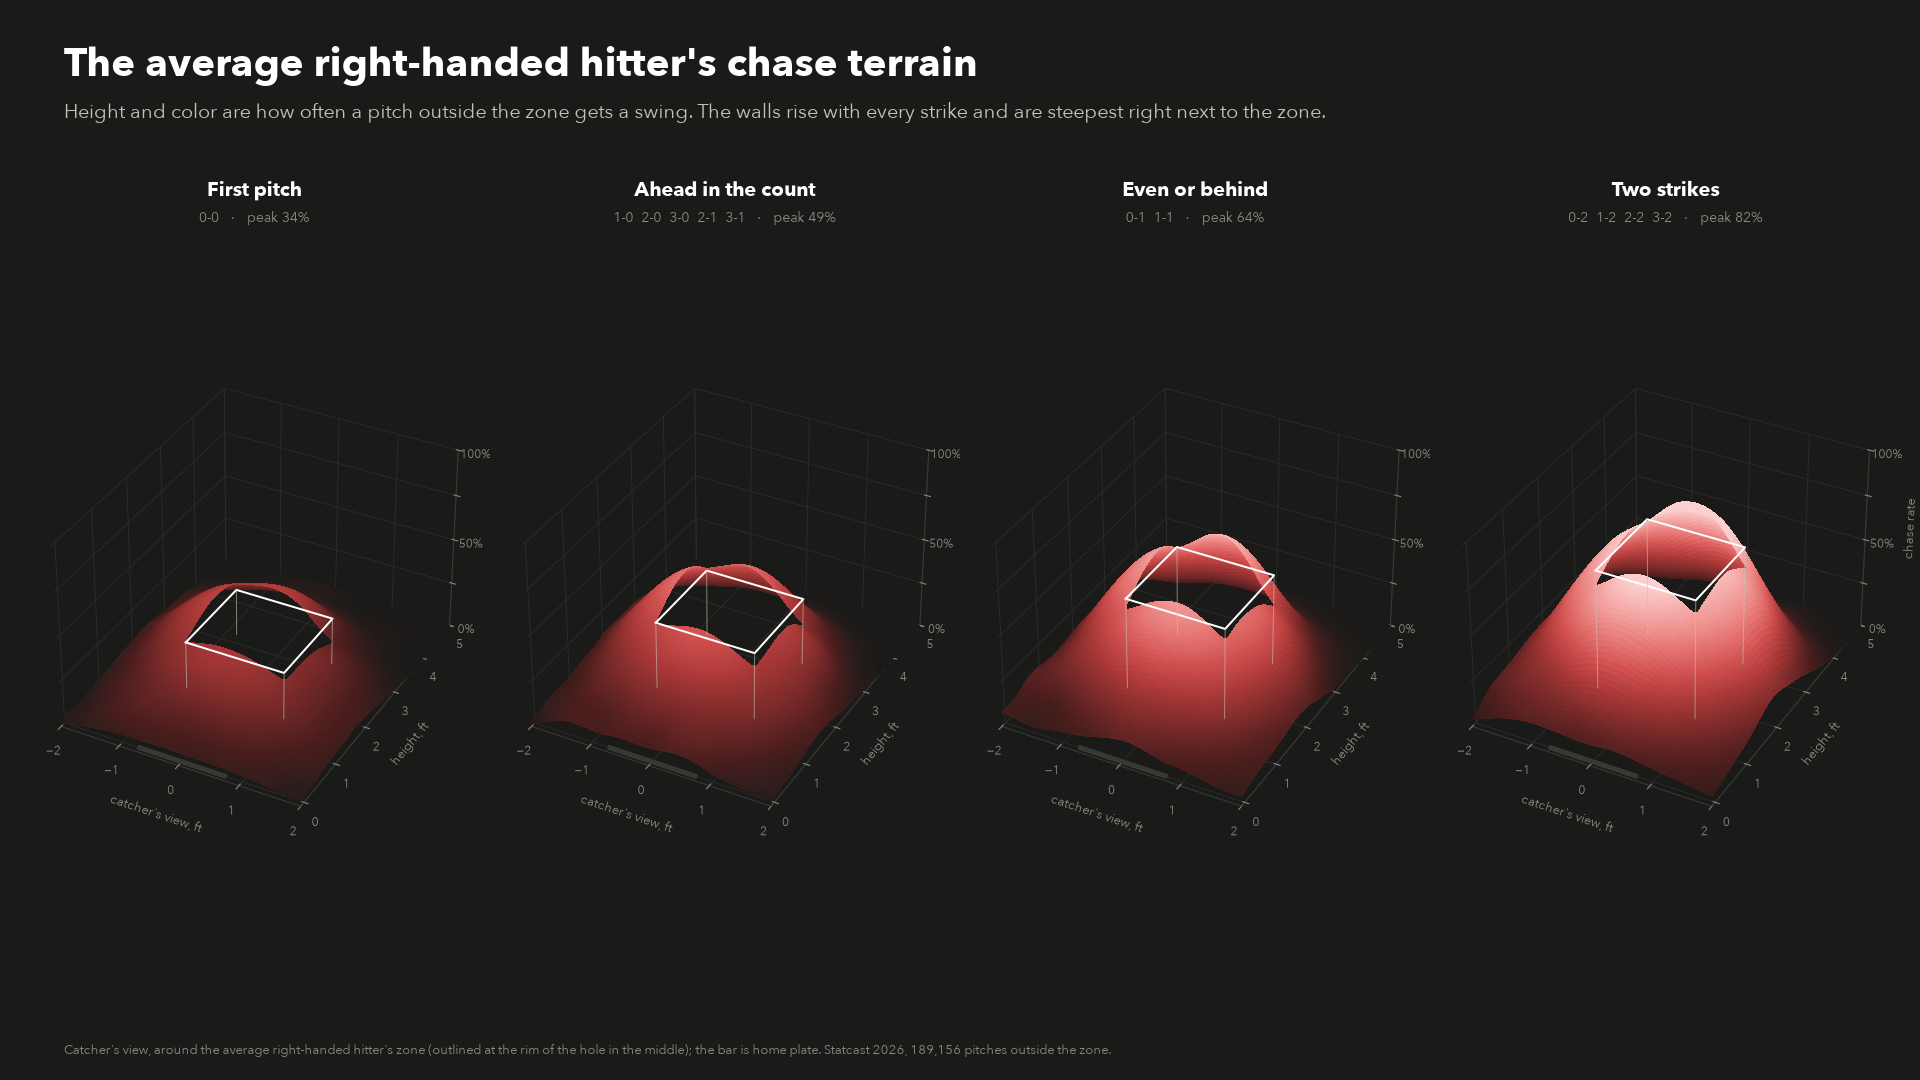
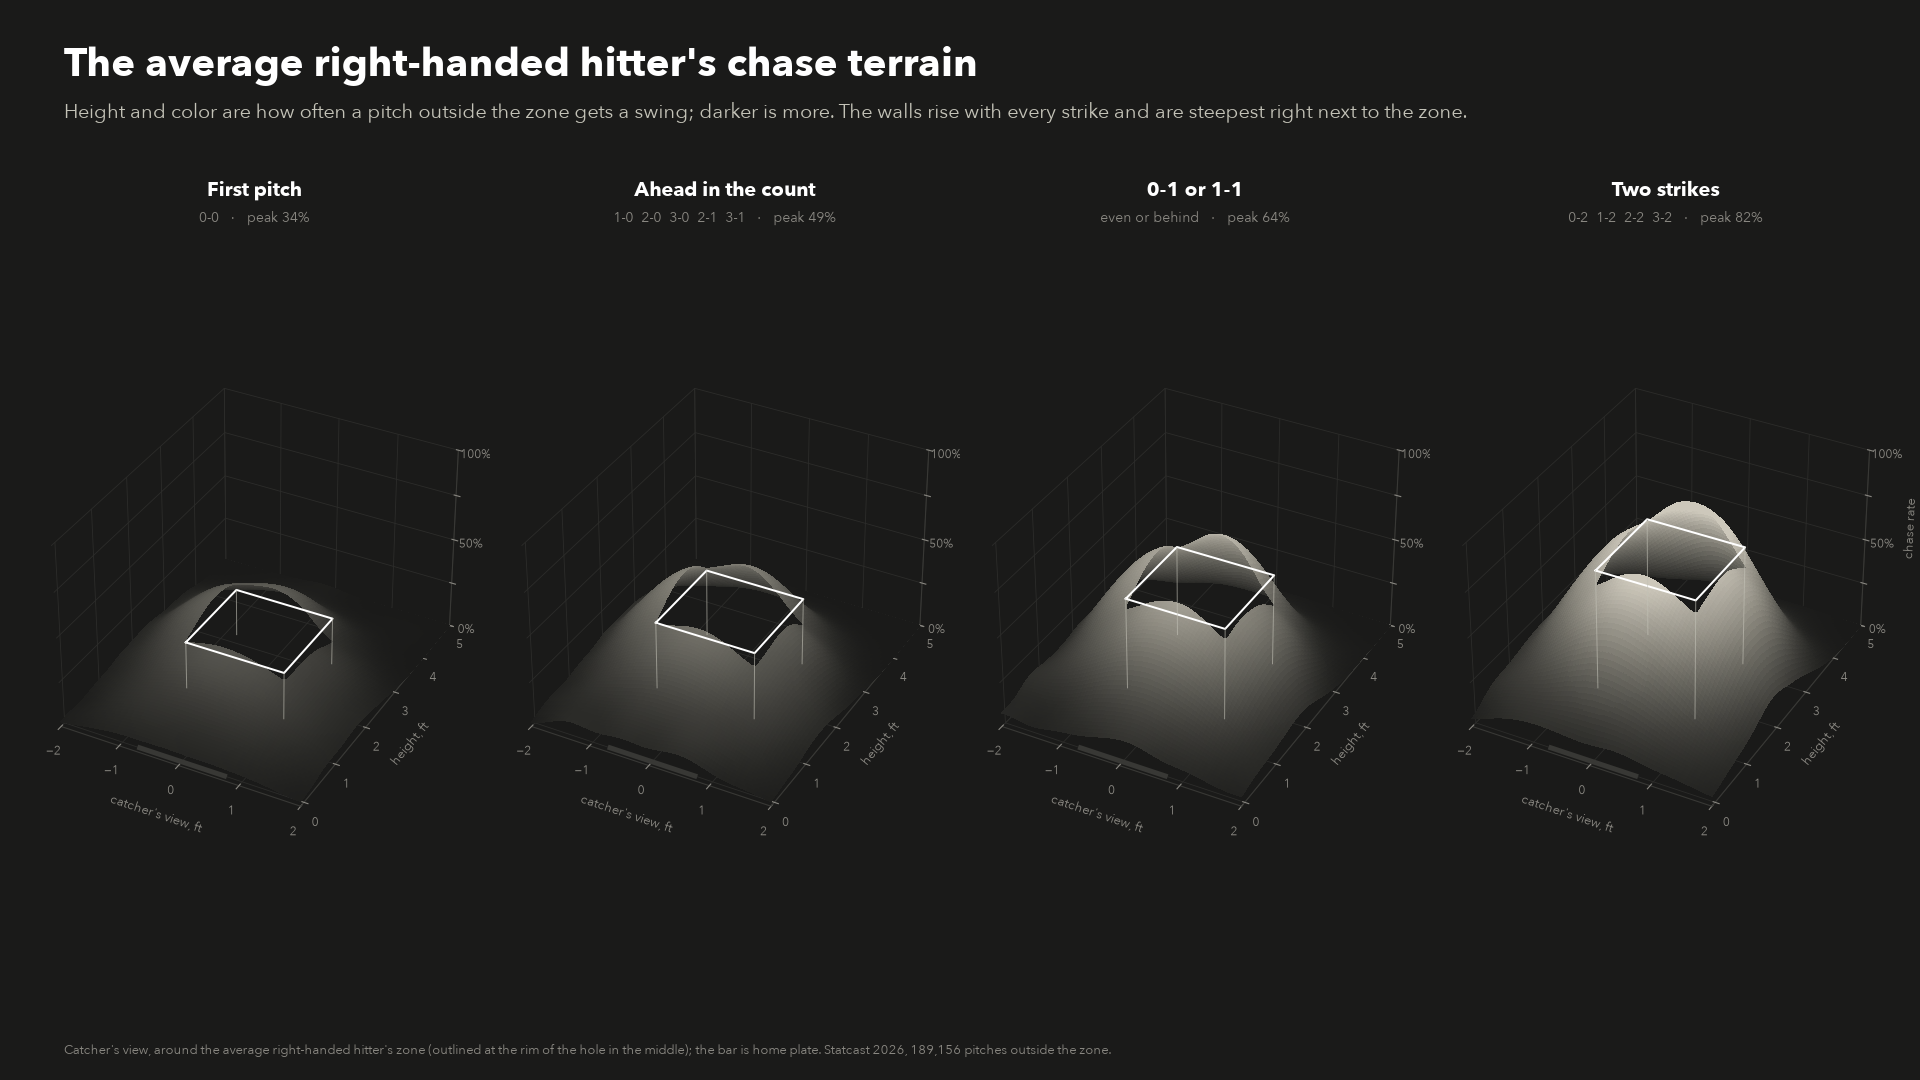
Redraw the terrain stills with the cards' colors and labels
The reference ramp went neutral and the diverging midpoint became a
visible gray on 2026-10-16; the 3D stills still carried the old red ramp.
Step 18 now matches: the average hitter's terrain in grays ("darker is
more"), the hitter's terrain red and blue around a gray midpoint, the
even group labeled "0-1 or 1-1", and the biggest leak named with the
card's own phrase. Four stills redrawn.

diff --git a/scripts/18_make_terrain_figures.py b/scripts/18_make_terrain_figures.py
@@ -60,9 +60,9 @@ AVERAGE_ZONE = meta["average_zone"]
 XS, ZS = cs.grid()
 GX, GZ = np.meshgrid(XS, ZS)
 COUNT_LABELS = {"first": "First pitch", "ahead": "Ahead in the count",
-                "even": "Even or behind", "two": "Two strikes"}
+                "even": "0-1 or 1-1", "two": "Two strikes"}
 COUNT_DETAIL = {"first": "0-0", "ahead": "1-0  2-0  3-0  2-1  3-1",
-                "even": "0-1  1-1", "two": "0-2  1-2  2-2  3-2"}
+                "even": "even or behind", "two": "0-2  1-2  2-2  3-2"}
 REGION_WORDS = {"up": "above the zone", "down": "below the zone", "in": "inside",
                 "away": "away", "up-in": "up and in", "up-away": "up and away",
                 "down-in": "down and in", "down-away": "down and away"}
@@ -153,8 +153,8 @@ def average_terrain(theme):
     mask = cs.in_zone_mask(XS, ZS, *zone)
     fig = figure(t)
     text(fig, 64, 76, "The average right-handed hitter's chase terrain", t, 40, weight="bold")
-    text(fig, 64, 118, "Height and color are how often a pitch outside the zone gets a swing. "
-         "The walls rise with every strike and are steepest right next to the zone.", t, 20, "ink2")
+    text(fig, 64, 118, "Height and color are how often a pitch outside the zone gets a swing; darker "
+         "is more. The walls rise with every strike and are steepest right next to the zone.", t, 20, "ink2")
     peaks = {}
     for k, g in enumerate(["first", "ahead", "even", "two"]):
         frame = lg[lg["count_group"] == g]
@@ -232,7 +232,7 @@ def hitter_terrain(name, theme):
     if leak:
         y += 150
         text(fig, 64, y, "BIGGEST LEAK", t, 13, "muted", weight="bold")
-        text(fig, 64, y + 32, f"{COUNT_LABELS[group]}, {where}", t, 18)
+        text(fig, 64, y + 32, leak.get("phrase", f"{COUNT_LABELS[group]}, {where}"), t, 18)
         text(fig, 64, y + 60, f"{leak['rate'] * 100:.0f}% swings vs {leak['league'] * 100:.0f}% for the "
              f"average hitter, {abs(leak['choices']):.1f} runs per 600 PA", t, 15, "ink2")
     text(fig, 64, H - 26, "Catcher's view, around the hitter's own zone (outlined at the rim of the hole in the middle); "
